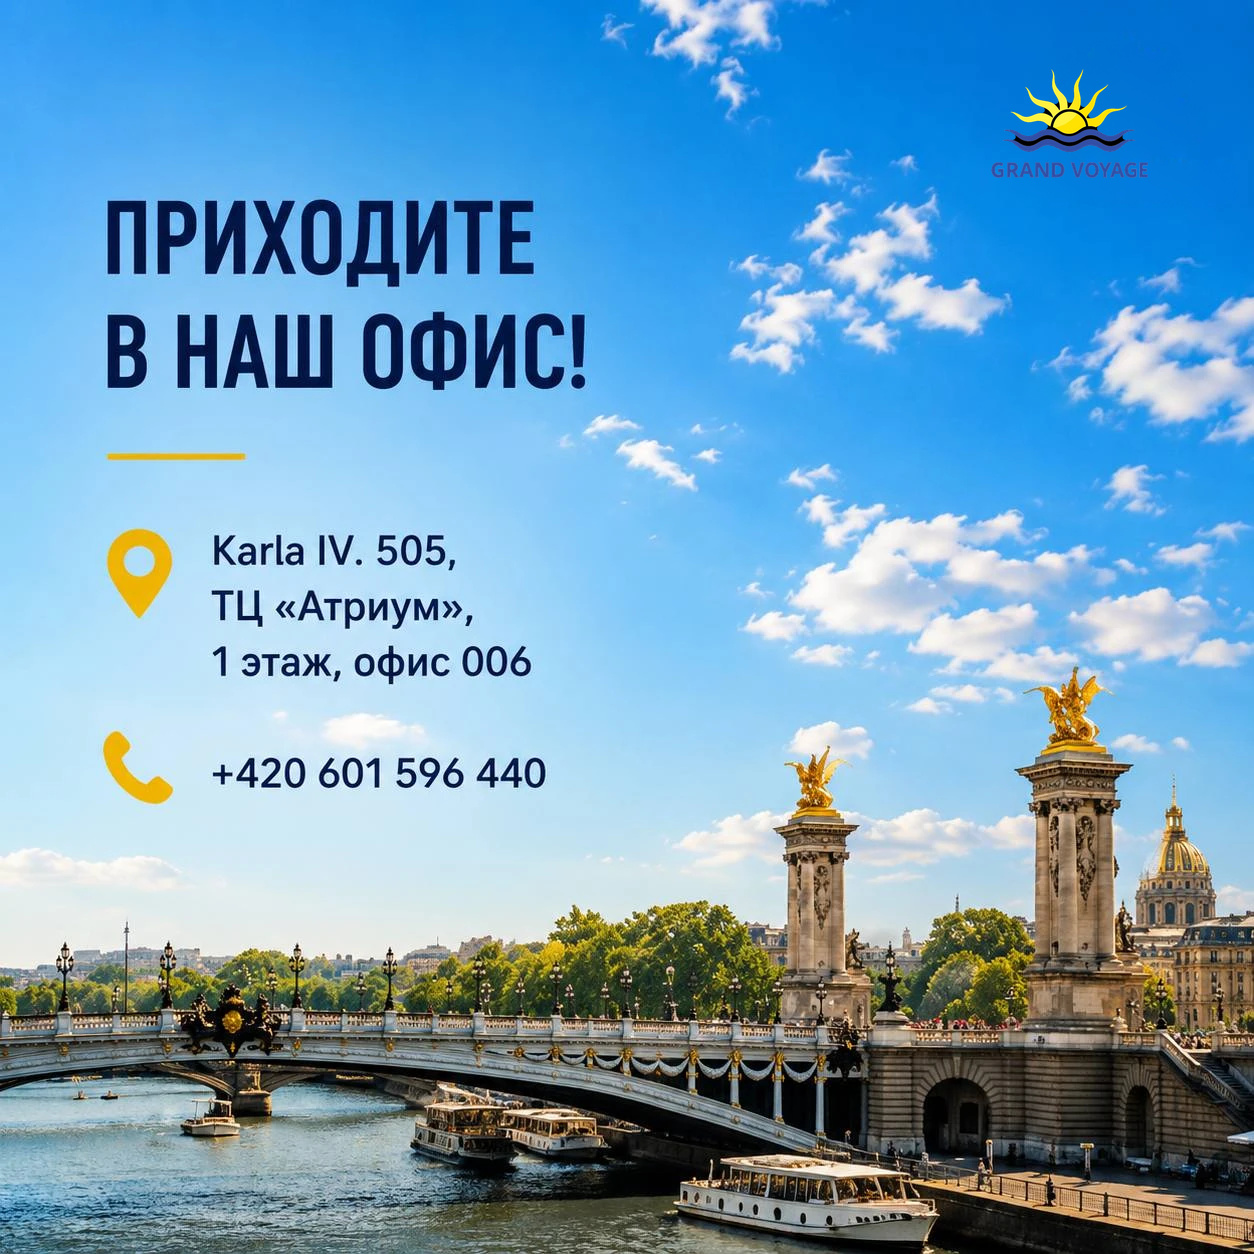
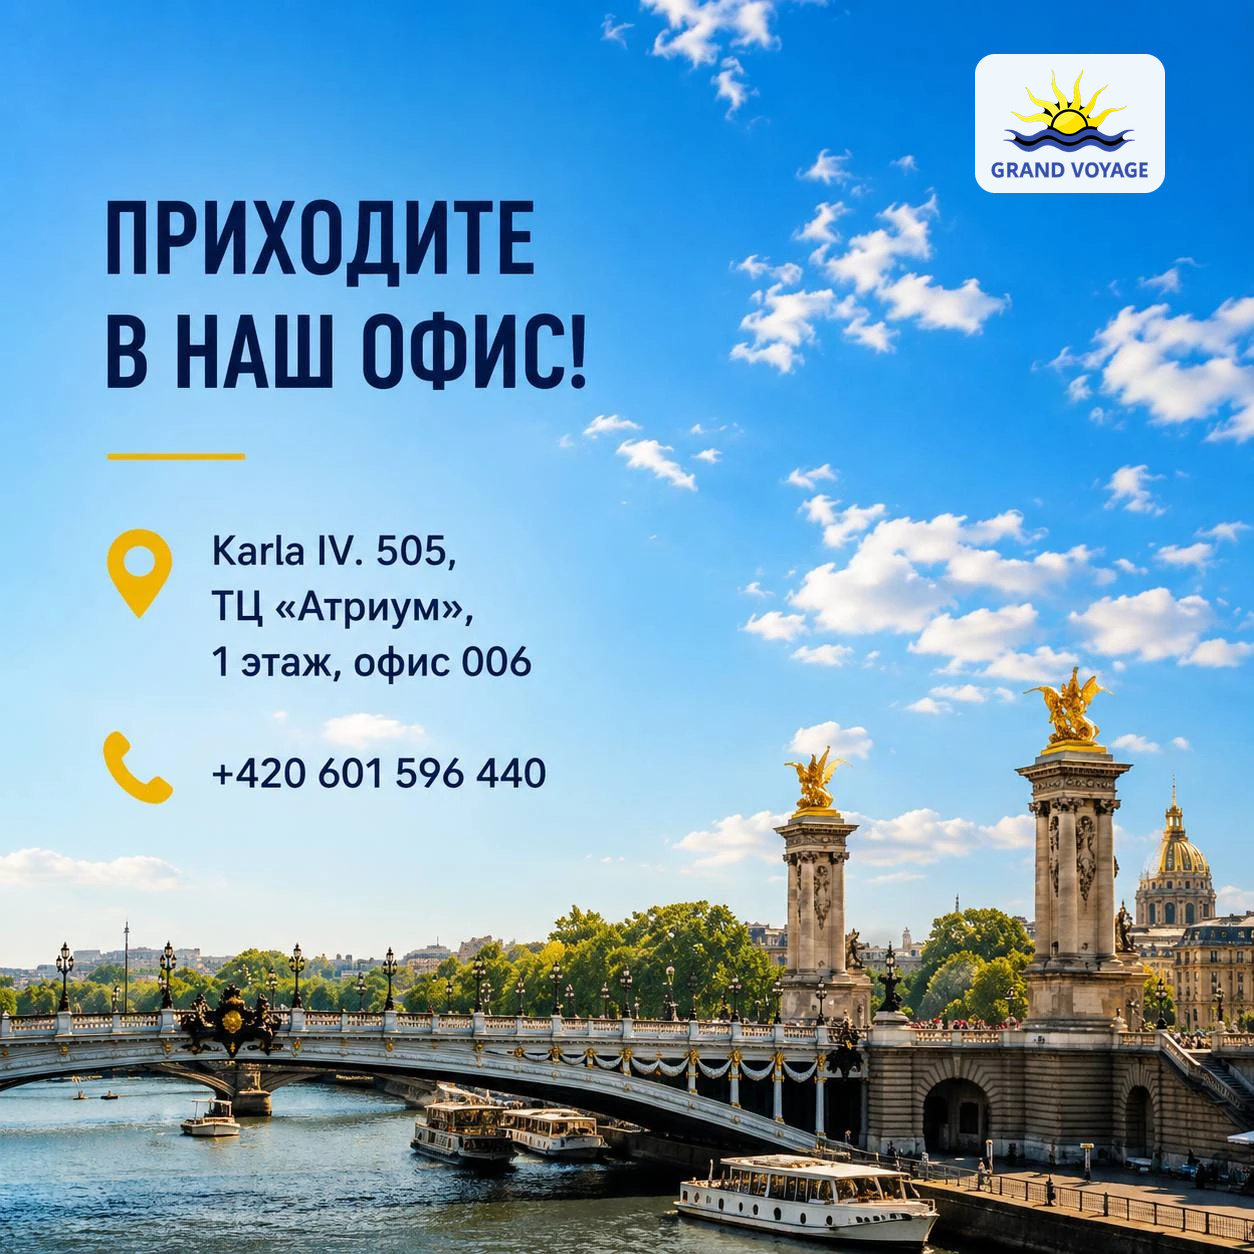
Make the white-plate build the default set
Chosen after comparing all three: it is the only one that keeps the logo's
colours untouched and still reads, including on slide 3 where the top-right
corner is a building rather than sky. The plain and white-ink builds move to
output/alt/ and rebuild_slides.py now defaults to the plate.

Claude-Session: https://claude.ai/code/session_01XcZbrhNcudGXRHHTCCgDgj

Changed region(s): [[0.7775, 0.0311, 0.933, 0.1555]]

diff --git a/scripts/rebuild_slides.py b/scripts/rebuild_slides.py
@@ -45,10 +45,11 @@ LOGO_MARGIN_RIGHT = 104
 # a (x, y) pair to park slide 3 over its own sky instead.
 SLIDE3_OVERRIDE = None
 
-# Optional white card behind the logo.  The supplied artwork's royal blue sits
-# at 1.4:1 against these skies - effectively invisible - and a plate fixes that
-# without touching a single logo colour.  None = no plate.
-PLATE = None   # e.g. dict(pad=15, radius=20, opacity=0.93)
+# White card behind the logo.  The supplied artwork's royal blue sits at 1.38:1
+# against these skies - effectively invisible - and slide 3's top-right corner
+# is a building rather than sky.  The plate fixes both without touching a single
+# logo colour, which is why it is the default.  Set to None to drop it.
+PLATE = dict(pad=15, radius=20, opacity=0.94)
 
 # Region to hunt for the old logo in.  Generous - the detector finds the actual
 # ink, this only keeps it from mistaking headline text or clouds for a logo.

diff --git a/README.md b/README.md
@@ -16,15 +16,19 @@
 | Зазор до заголовка | 18 px до самого высокого текста (слайд 2, `y = 196`) |
 | Размер слайда | `1254 × 1254 px` |
 
-## Три комплекта в `output/`
+## Что брать
 
-Логотип во всех трёх — один и тот же файл, разница только в читаемости.
+**Готовые слайды — `output/01..05_*.png` (без потерь) и `.jpg` (q95).**
+Логотип на белой подложке со скруглёнными углами: цвета логотипа не тронуты
+вообще, но он читается на любом фоне.
+
+В `output/alt/` лежат два запасных комплекта — логотип там тот же самый файл,
+разница только в читаемости:
 
 | Файлы | Что это |
 |---|---|
-| `01..05_*.png` / `.jpg` | **Как есть, 1 в 1.** Цвета логотипа не тронуты вообще. |
-| `01..05_*_plate.*` | То же самое **на белой подложке**. Цвета логотипа те же, но он читается. |
-| `01..05_*_white.*` | Синяя краска заменена на белую. Солнце и обводки не тронуты. |
+| `*_exact.*` | Логотип без подложки, совсем как есть. На небе почти не виден. |
+| `*_white.*` | Синяя краска заменена на белую. Солнце и обводки не тронуты. |
 
 Почему это вообще вопрос: синий у логотипа `#3B5BA8`, небо на слайдах
 `rgb(40,122,178)`. Контраст между ними — **1.38:1** (1.0 значит «неразличимо»),
@@ -83,12 +87,13 @@ python3 build_logo_v2.py     # вырезать логотип из чёрног
 python3 rebuild_slides.py    # пересобрать слайды
 ```
 
-Варианты с подложкой и с белой краской:
+`rebuild_slides.py` по умолчанию собирает основной вариант — с подложкой.
+Запасные:
 
 ```python
 import rebuild_slides as R
-R.PLATE = dict(pad=15, radius=20, opacity=0.94); R.run("_plate")
-R.PLATE = None;                                  R.run("_white", logo_variant="white")
+R.PLATE = None; R.run("_exact")                          # без подложки
+R.PLATE = None; R.run("_white", logo_variant="white")    # белая краска
 ```
 
 Позиция, размер и отступы задаются вверху `rebuild_slides.py` относительно
